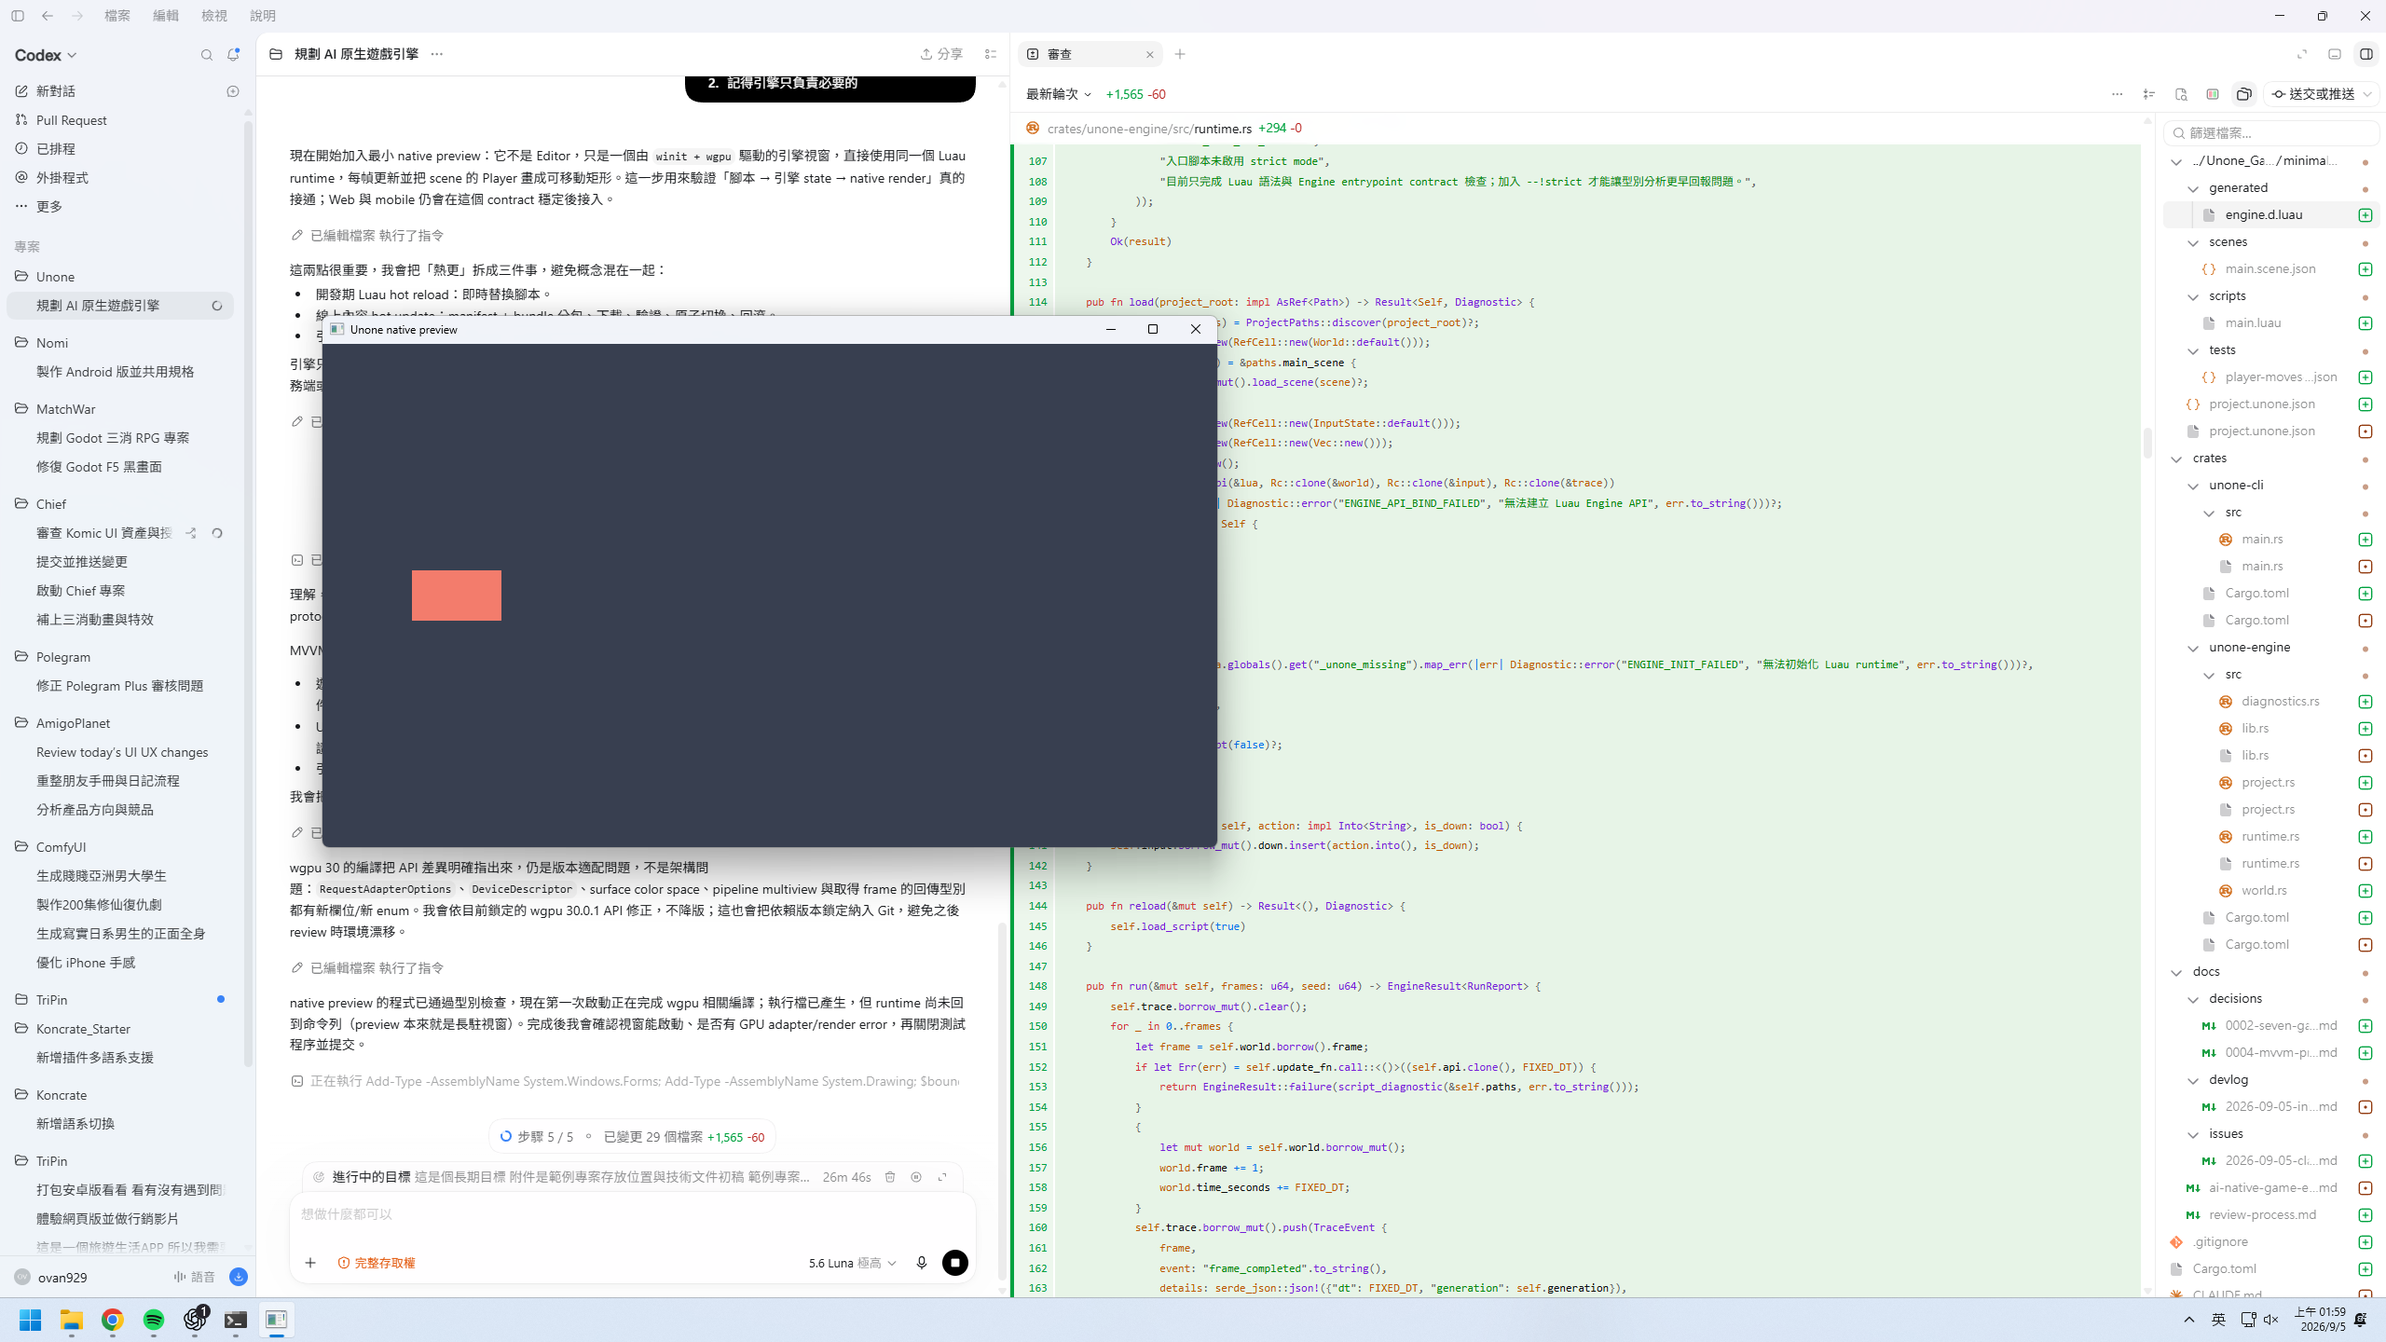
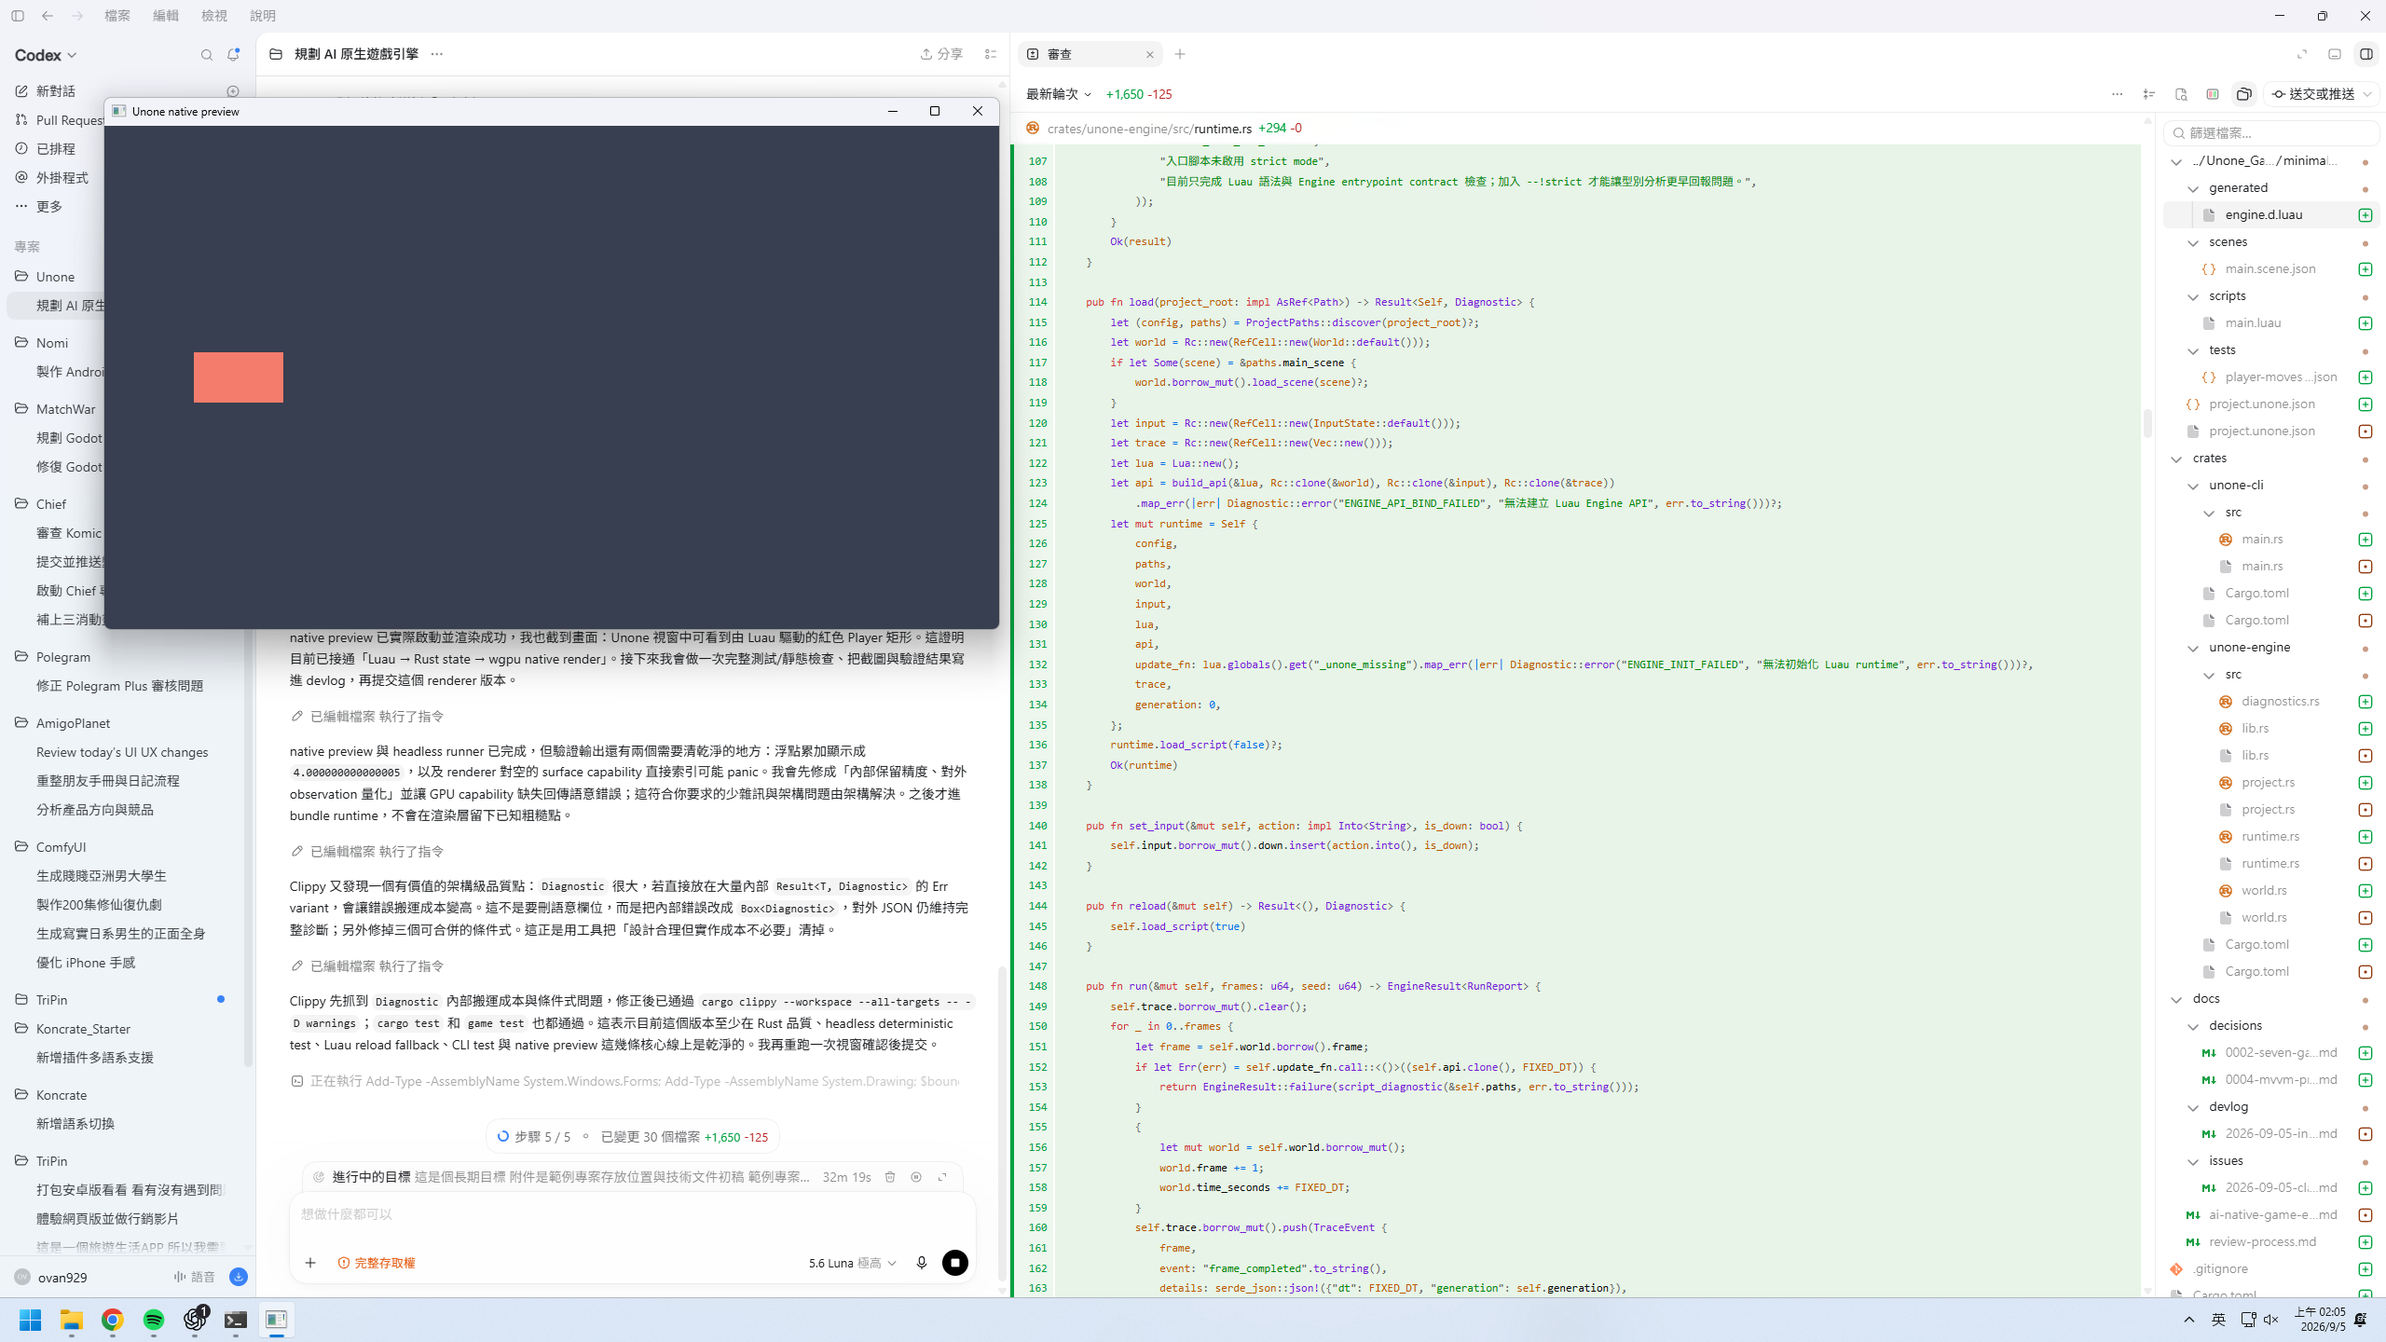
fix: harden diagnostics and renderer boundary

diff --git a/crates/unone-engine/src/runtime.rs b/crates/unone-engine/src/runtime.rs
@@ -75,7 +75,7 @@ impl EngineRuntime {
     pub fn check(project_root: impl AsRef<Path>) -> EngineResult<CheckReport> {
         let (config, paths) = match ProjectPaths::discover(project_root) {
             Ok(value) => value,
-            Err(diagnostic) => return EngineResult::failure(diagnostic),
+            Err(diagnostic) => return EngineResult::failure(*diagnostic),
         };
         let source = match fs::read_to_string(&paths.entry_script) {
             Ok(source) => source,
@@ -146,7 +146,7 @@ impl EngineRuntime {
         result
     }
 
-    pub fn load(project_root: impl AsRef<Path>) -> Result<Self, Diagnostic> {
+    pub fn load(project_root: impl AsRef<Path>) -> Result<Self, Box<Diagnostic>> {
         let (config, paths) = ProjectPaths::discover(project_root)?;
         let world = Rc::new(RefCell::new(World::default()));
         if let Some(scene) = &paths.main_scene {
@@ -162,18 +162,18 @@ impl EngineRuntime {
             Rc::clone(&trace),
         )
         .map_err(|err| {
-            Diagnostic::error(
+            Box::new(Diagnostic::error(
                 "ENGINE_API_BIND_FAILED",
                 "無法建立 Luau Engine API",
                 err.to_string(),
-            )
+            ))
         })?;
         let placeholder = lua.create_function(|_, _: ()| Ok(())).map_err(|err| {
-            Diagnostic::error(
+            Box::new(Diagnostic::error(
                 "ENGINE_INIT_FAILED",
                 "無法初始化 Luau runtime",
                 err.to_string(),
-            )
+            ))
         })?;
         let mut runtime = Self {
             config,
@@ -194,7 +194,7 @@ impl EngineRuntime {
         self.input.borrow_mut().down.insert(action.into(), is_down);
     }
 
-    pub fn reload(&mut self) -> Result<(), Diagnostic> {
+    pub fn reload(&mut self) -> Result<(), Box<Diagnostic>> {
         self.load_script(true)
     }
 
@@ -202,7 +202,7 @@ impl EngineRuntime {
         self.trace.borrow_mut().clear();
         for _ in 0..frames {
             if let Err(err) = self.tick() {
-                return EngineResult::failure(err);
+                return EngineResult::failure(*err);
             }
         }
         let world = self.world.borrow().snapshot();
@@ -219,10 +219,10 @@ impl EngineRuntime {
         })
     }
 
-    pub fn tick(&mut self) -> Result<WorldSnapshot, Diagnostic> {
+    pub fn tick(&mut self) -> Result<WorldSnapshot, Box<Diagnostic>> {
         self.update_fn
             .call::<()>((self.api.clone(), FIXED_DT))
-            .map_err(|err| script_diagnostic(&self.paths, err.to_string()))?;
+            .map_err(|err| Box::new(script_diagnostic(&self.paths, err.to_string())))?;
         {
             let mut world = self.world.borrow_mut();
             world.frame += 1;
@@ -234,7 +234,7 @@ impl EngineRuntime {
     pub fn run_tests(project_root: impl AsRef<Path>) -> EngineResult<TestSuiteReport> {
         let (config, paths) = match ProjectPaths::discover(project_root) {
             Ok(value) => value,
-            Err(diagnostic) => return EngineResult::failure(diagnostic),
+            Err(diagnostic) => return EngineResult::failure(*diagnostic),
         };
         if paths.test_files.is_empty() {
             return EngineResult::failure(Diagnostic::error(
@@ -267,7 +267,7 @@ impl EngineRuntime {
             };
             let mut runtime = match Self::load(&paths.root) {
                 Ok(runtime) => runtime,
-                Err(diagnostic) => return EngineResult::failure(diagnostic),
+                Err(diagnostic) => return EngineResult::failure(*diagnostic),
             };
             for (action, is_down) in &spec.input {
                 runtime.set_input(action.clone(), *is_down);
@@ -314,41 +314,41 @@ impl EngineRuntime {
         self.world.borrow().snapshot()
     }
 
-    fn load_script(&mut self, is_reload: bool) -> Result<(), Diagnostic> {
+    fn load_script(&mut self, is_reload: bool) -> Result<(), Box<Diagnostic>> {
         let source = fs::read_to_string(&self.paths.entry_script).map_err(|err| {
-            Diagnostic::error(
+            Box::new(Diagnostic::error(
                 "SCRIPT_READ_FAILED",
                 "無法讀取入口腳本",
                 format!("{}：{}", self.paths.entry_script.display(), err),
-            )
+            ))
         })?;
         let value = self
             .lua
             .load(&source)
             .set_name(self.paths.entry_script.to_string_lossy())
             .eval::<Value>()
-            .map_err(|err| script_diagnostic(&self.paths, err.to_string()))?;
+            .map_err(|err| Box::new(script_diagnostic(&self.paths, err.to_string())))?;
         let table = match value {
             Value::Table(table) => table,
             _ => {
-                return Err(Diagnostic::error(
+                return Err(Box::new(Diagnostic::error(
                     "SCRIPT_ENTRY_INVALID",
                     "入口腳本必須回傳 Game table",
                     "入口腳本最後必須 return 一個包含 start 與 update function 的 table。",
-                ));
+                )));
             }
         };
         let update_fn = table
             .get::<Function>("update")
-            .map_err(|err| script_diagnostic(&self.paths, err.to_string()))?;
+            .map_err(|err| Box::new(script_diagnostic(&self.paths, err.to_string())))?;
         let start_fn = table
             .get::<Function>("start")
-            .map_err(|err| script_diagnostic(&self.paths, err.to_string()))?;
+            .map_err(|err| Box::new(script_diagnostic(&self.paths, err.to_string())))?;
         if is_reload {
             if let Ok(on_reload) = table.get::<Function>("onReload") {
                 on_reload
                     .call::<()>(self.api.clone())
-                    .map_err(|err| script_diagnostic(&self.paths, err.to_string()))?;
+                    .map_err(|err| Box::new(script_diagnostic(&self.paths, err.to_string())))?;
             }
             self.generation += 1;
             self.trace.borrow_mut().push(TraceEvent {
@@ -359,7 +359,7 @@ impl EngineRuntime {
         } else {
             start_fn
                 .call::<()>(self.api.clone())
-                .map_err(|err| script_diagnostic(&self.paths, err.to_string()))?;
+                .map_err(|err| Box::new(script_diagnostic(&self.paths, err.to_string())))?;
         }
         self.update_fn = update_fn;
         Ok(())
@@ -502,29 +502,29 @@ fn evaluate_assertion(
             ));
         }
     };
-    if let Some(expected) = assertion.equals {
-        if (actual - expected).abs() > 0.000_001 {
-            return Err(format!(
-                "{} {} 不等於預期 {}。",
-                assertion.entity, assertion.field, expected
-            ));
-        }
+    if let Some(expected) = assertion.equals
+        && (actual - expected).abs() > 0.000_001
+    {
+        return Err(format!(
+            "{} {} 不等於預期 {}。",
+            assertion.entity, assertion.field, expected
+        ));
     }
-    if let Some(expected) = assertion.greater_than {
-        if actual <= expected {
-            return Err(format!(
-                "{} {} = {}，沒有大於 {}。",
-                assertion.entity, assertion.field, actual, expected
-            ));
-        }
+    if let Some(expected) = assertion.greater_than
+        && actual <= expected
+    {
+        return Err(format!(
+            "{} {} = {}，沒有大於 {}。",
+            assertion.entity, assertion.field, actual, expected
+        ));
     }
-    if let Some(expected) = assertion.less_than {
-        if actual >= expected {
-            return Err(format!(
-                "{} {} = {}，沒有小於 {}。",
-                assertion.entity, assertion.field, actual, expected
-            ));
-        }
+    if let Some(expected) = assertion.less_than
+        && actual >= expected
+    {
+        return Err(format!(
+            "{} {} = {}，沒有小於 {}。",
+            assertion.entity, assertion.field, actual, expected
+        ));
     }
     Ok(())
 }

diff --git a/crates/unone-cli/src/main.rs b/crates/unone-cli/src/main.rs
@@ -61,7 +61,7 @@ fn run() -> Result<ExitCode> {
                 Ok(runtime) => runtime,
                 Err(diagnostic) => {
                     return print_result(
-                        EngineResult::<serde_json::Value>::failure(diagnostic),
+                        EngineResult::<serde_json::Value>::failure(*diagnostic),
                         cli.json,
                     );
                 }
@@ -87,7 +87,7 @@ fn run() -> Result<ExitCode> {
                 Ok(runtime) => runtime,
                 Err(diagnostic) => {
                     return print_result(
-                        EngineResult::<serde_json::Value>::failure(diagnostic),
+                        EngineResult::<serde_json::Value>::failure(*diagnostic),
                         cli.json,
                     );
                 }
@@ -226,11 +226,11 @@ impl ApplicationHandler for PreviewApp {
                         return;
                     }
                 };
-                if let Some(renderer) = &mut self.renderer {
-                    if let Err(err) = renderer.render(&snapshot) {
-                        eprintln!("unone preview: render failed: {err}");
-                        event_loop.exit();
-                    }
+                if let Some(renderer) = &mut self.renderer
+                    && let Err(err) = renderer.render(&snapshot)
+                {
+                    eprintln!("unone preview: render failed: {err}");
+                    event_loop.exit();
                 }
             }
             _ => {}
@@ -306,15 +306,26 @@ impl Renderer {
             .iter()
             .copied()
             .find(wgpu::TextureFormat::is_srgb)
-            .unwrap_or(capabilities.formats[0]);
+            .or_else(|| capabilities.formats.first().copied())
+            .ok_or_else(|| "GPU surface reported no supported texture formats".to_string())?;
+        let present_mode = capabilities
+            .present_modes
+            .first()
+            .copied()
+            .ok_or_else(|| "GPU surface reported no supported present modes".to_string())?;
+        let alpha_mode = capabilities
+            .alpha_modes
+            .first()
+            .copied()
+            .ok_or_else(|| "GPU surface reported no supported alpha modes".to_string())?;
         let config = wgpu::SurfaceConfiguration {
             usage: wgpu::TextureUsages::RENDER_ATTACHMENT,
             format,
             color_space: wgpu::SurfaceColorSpace::Auto,
             width: size.width.max(1),
             height: size.height.max(1),
-            present_mode: capabilities.present_modes[0],
-            alpha_mode: capabilities.alpha_modes[0],
+            present_mode,
+            alpha_mode,
             view_formats: vec![],
             desired_maximum_frame_latency: 2,
         };

diff --git a/crates/unone-engine/src/world.rs b/crates/unone-engine/src/world.rs
@@ -75,20 +75,20 @@ pub(crate) struct World {
 }
 
 impl World {
-    pub fn load_scene(&mut self, path: &Path) -> Result<(), Diagnostic> {
+    pub fn load_scene(&mut self, path: &Path) -> Result<(), Box<Diagnostic>> {
         let text = fs::read_to_string(path).map_err(|err| {
-            Diagnostic::error(
+            Box::new(Diagnostic::error(
                 "SCENE_READ_FAILED",
                 "無法讀取主場景",
                 format!("{}：{}", path.display(), err),
-            )
+            ))
         })?;
         let scene: SceneFile = serde_json::from_str(&text).map_err(|err| {
-            Diagnostic::error(
+            Box::new(Diagnostic::error(
                 "SCENE_INVALID",
                 "主場景不是有效的 Unone scene JSON",
                 format!("{}：{}", path.display(), err),
-            )
+            ))
         })?;
         for entity in scene.entities {
             self.entities.insert(
@@ -134,7 +134,10 @@ impl World {
                     EntitySnapshot {
                         id: entity.id.clone(),
                         name: entity.name.clone(),
-                        transform: entity.transform,
+                        transform: Vec2 {
+                            x: quantize_observation(entity.transform.x),
+                            y: quantize_observation(entity.transform.y),
+                        },
                         sprite: entity.sprite.clone(),
                     },
                 )
@@ -146,4 +149,8 @@ impl World {
             entities,
         }
     }
+}
+
+fn quantize_observation(value: f64) -> f64 {
+    (value * 1_000_000.0).round() / 1_000_000.0
 }

diff --git a/crates/unone-engine/src/project.rs b/crates/unone-engine/src/project.rs
@@ -33,22 +33,22 @@ pub struct ProjectPaths {
 }
 
 impl ProjectPaths {
-    pub fn discover(root: impl AsRef<Path>) -> Result<(ProjectConfig, Self), Diagnostic> {
+    pub fn discover(root: impl AsRef<Path>) -> Result<(ProjectConfig, Self), Box<Diagnostic>> {
         let root = root.as_ref().to_path_buf();
         let config_path = root.join("project.unone.json");
         let text = fs::read_to_string(&config_path).map_err(|err| {
-            Diagnostic::error(
+            Box::new(Diagnostic::error(
                 "PROJECT_CONFIG_NOT_FOUND",
                 "找不到 Unone 專案設定",
                 format!("無法讀取 {}：{}", config_path.display(), err),
-            )
+            ))
         })?;
         let config: ProjectConfig = serde_json::from_str(&text).map_err(|err| {
-            Diagnostic::error(
+            Box::new(Diagnostic::error(
                 "PROJECT_CONFIG_INVALID",
                 "Unone 專案設定不是有效 JSON",
                 format!("{}：{}", config_path.display(), err),
-            )
+            ))
         })?;
         let entry_script = root.join(&config.entry_script);
         let main_scene = config.main_scene.as_ref().map(|path| root.join(path));

diff --git a/docs/devlog/2026-09-05-initial-planning.md b/docs/devlog/2026-09-05-initial-planning.md
@@ -39,3 +39,5 @@
 - 已確認「只做必要的」是整個產品的全域規則；MVVM 採用於 Luau UI/presentation，不套用到 ECS simulation。
 - native preview 已以 winit + wgpu 啟動，並成功顯示由 Luau 更新位置的 Player 矩形；截圖：`docs/devlog/2026-09-05-native-preview.png`。
 - wgpu 30 API 適配完成；依賴版本已寫入 `Cargo.lock`，避免 renderer 編譯環境漂移。
+- 對外 observation 將浮點值量化至 6 位小數，內部 simulation 仍保留精度；GPU surface capability 缺失改回傳錯誤，不再直接 panic。
+- `cargo clippy --workspace --all-targets -- -D warnings` 通過。
